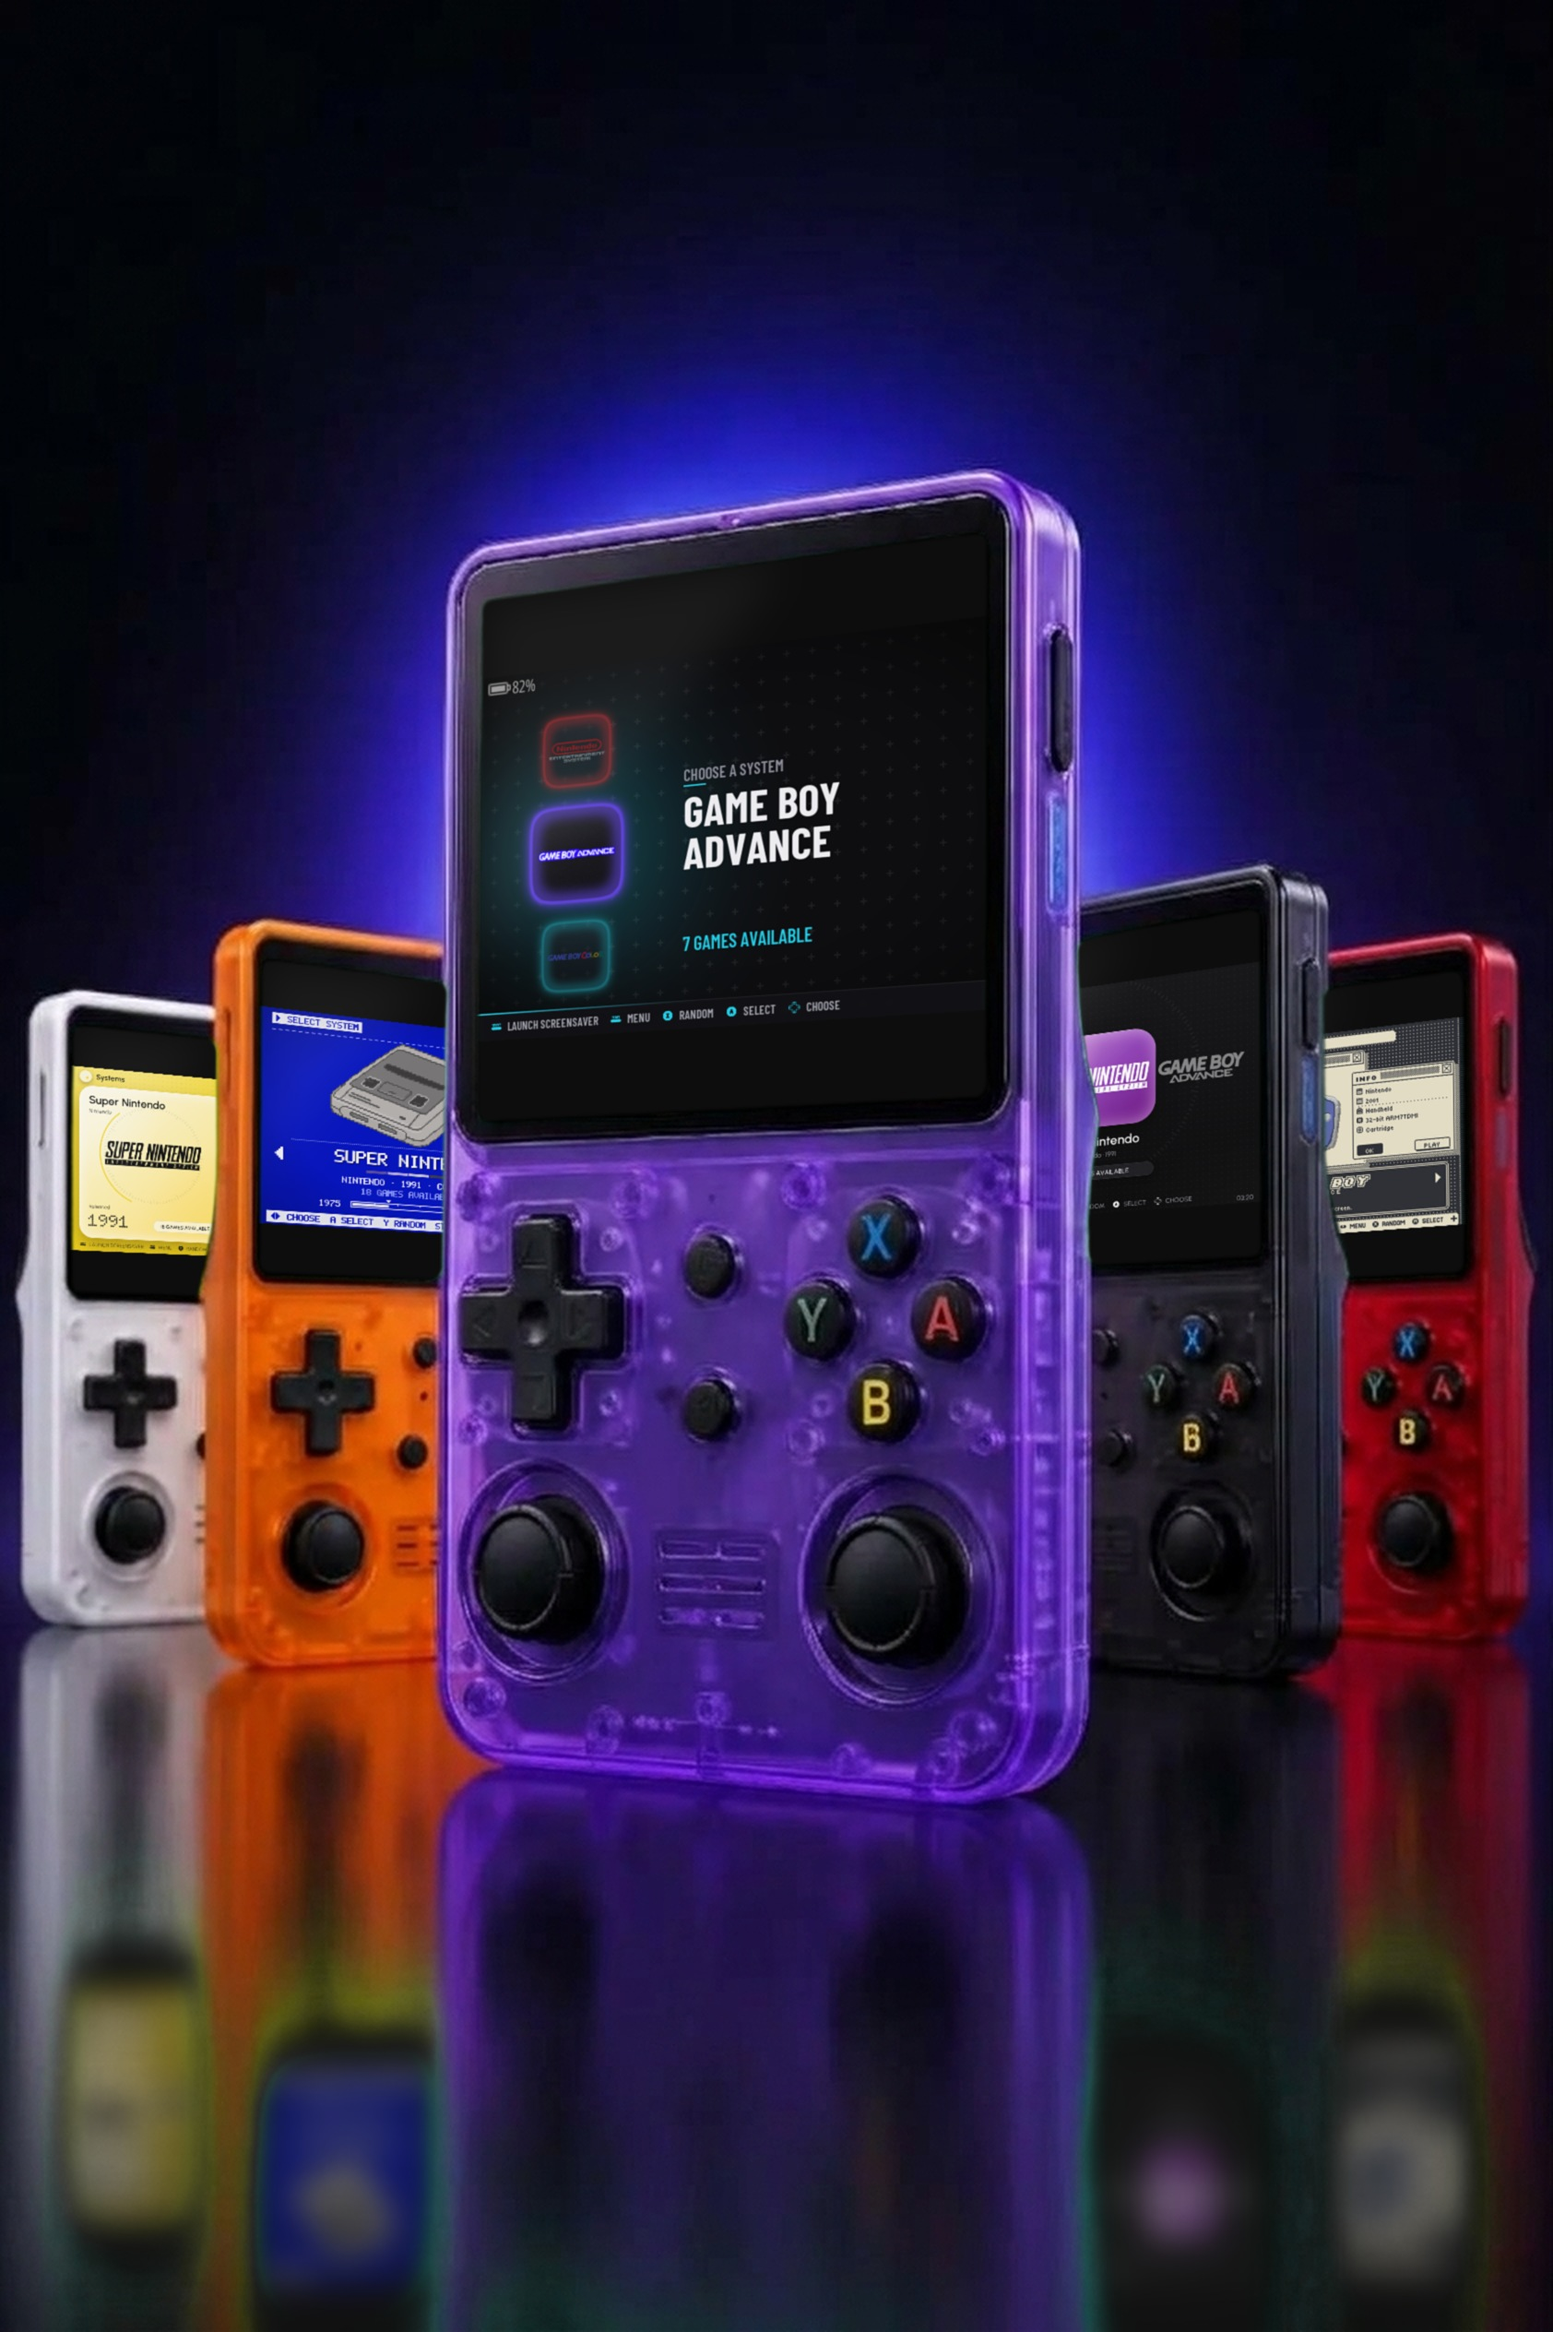
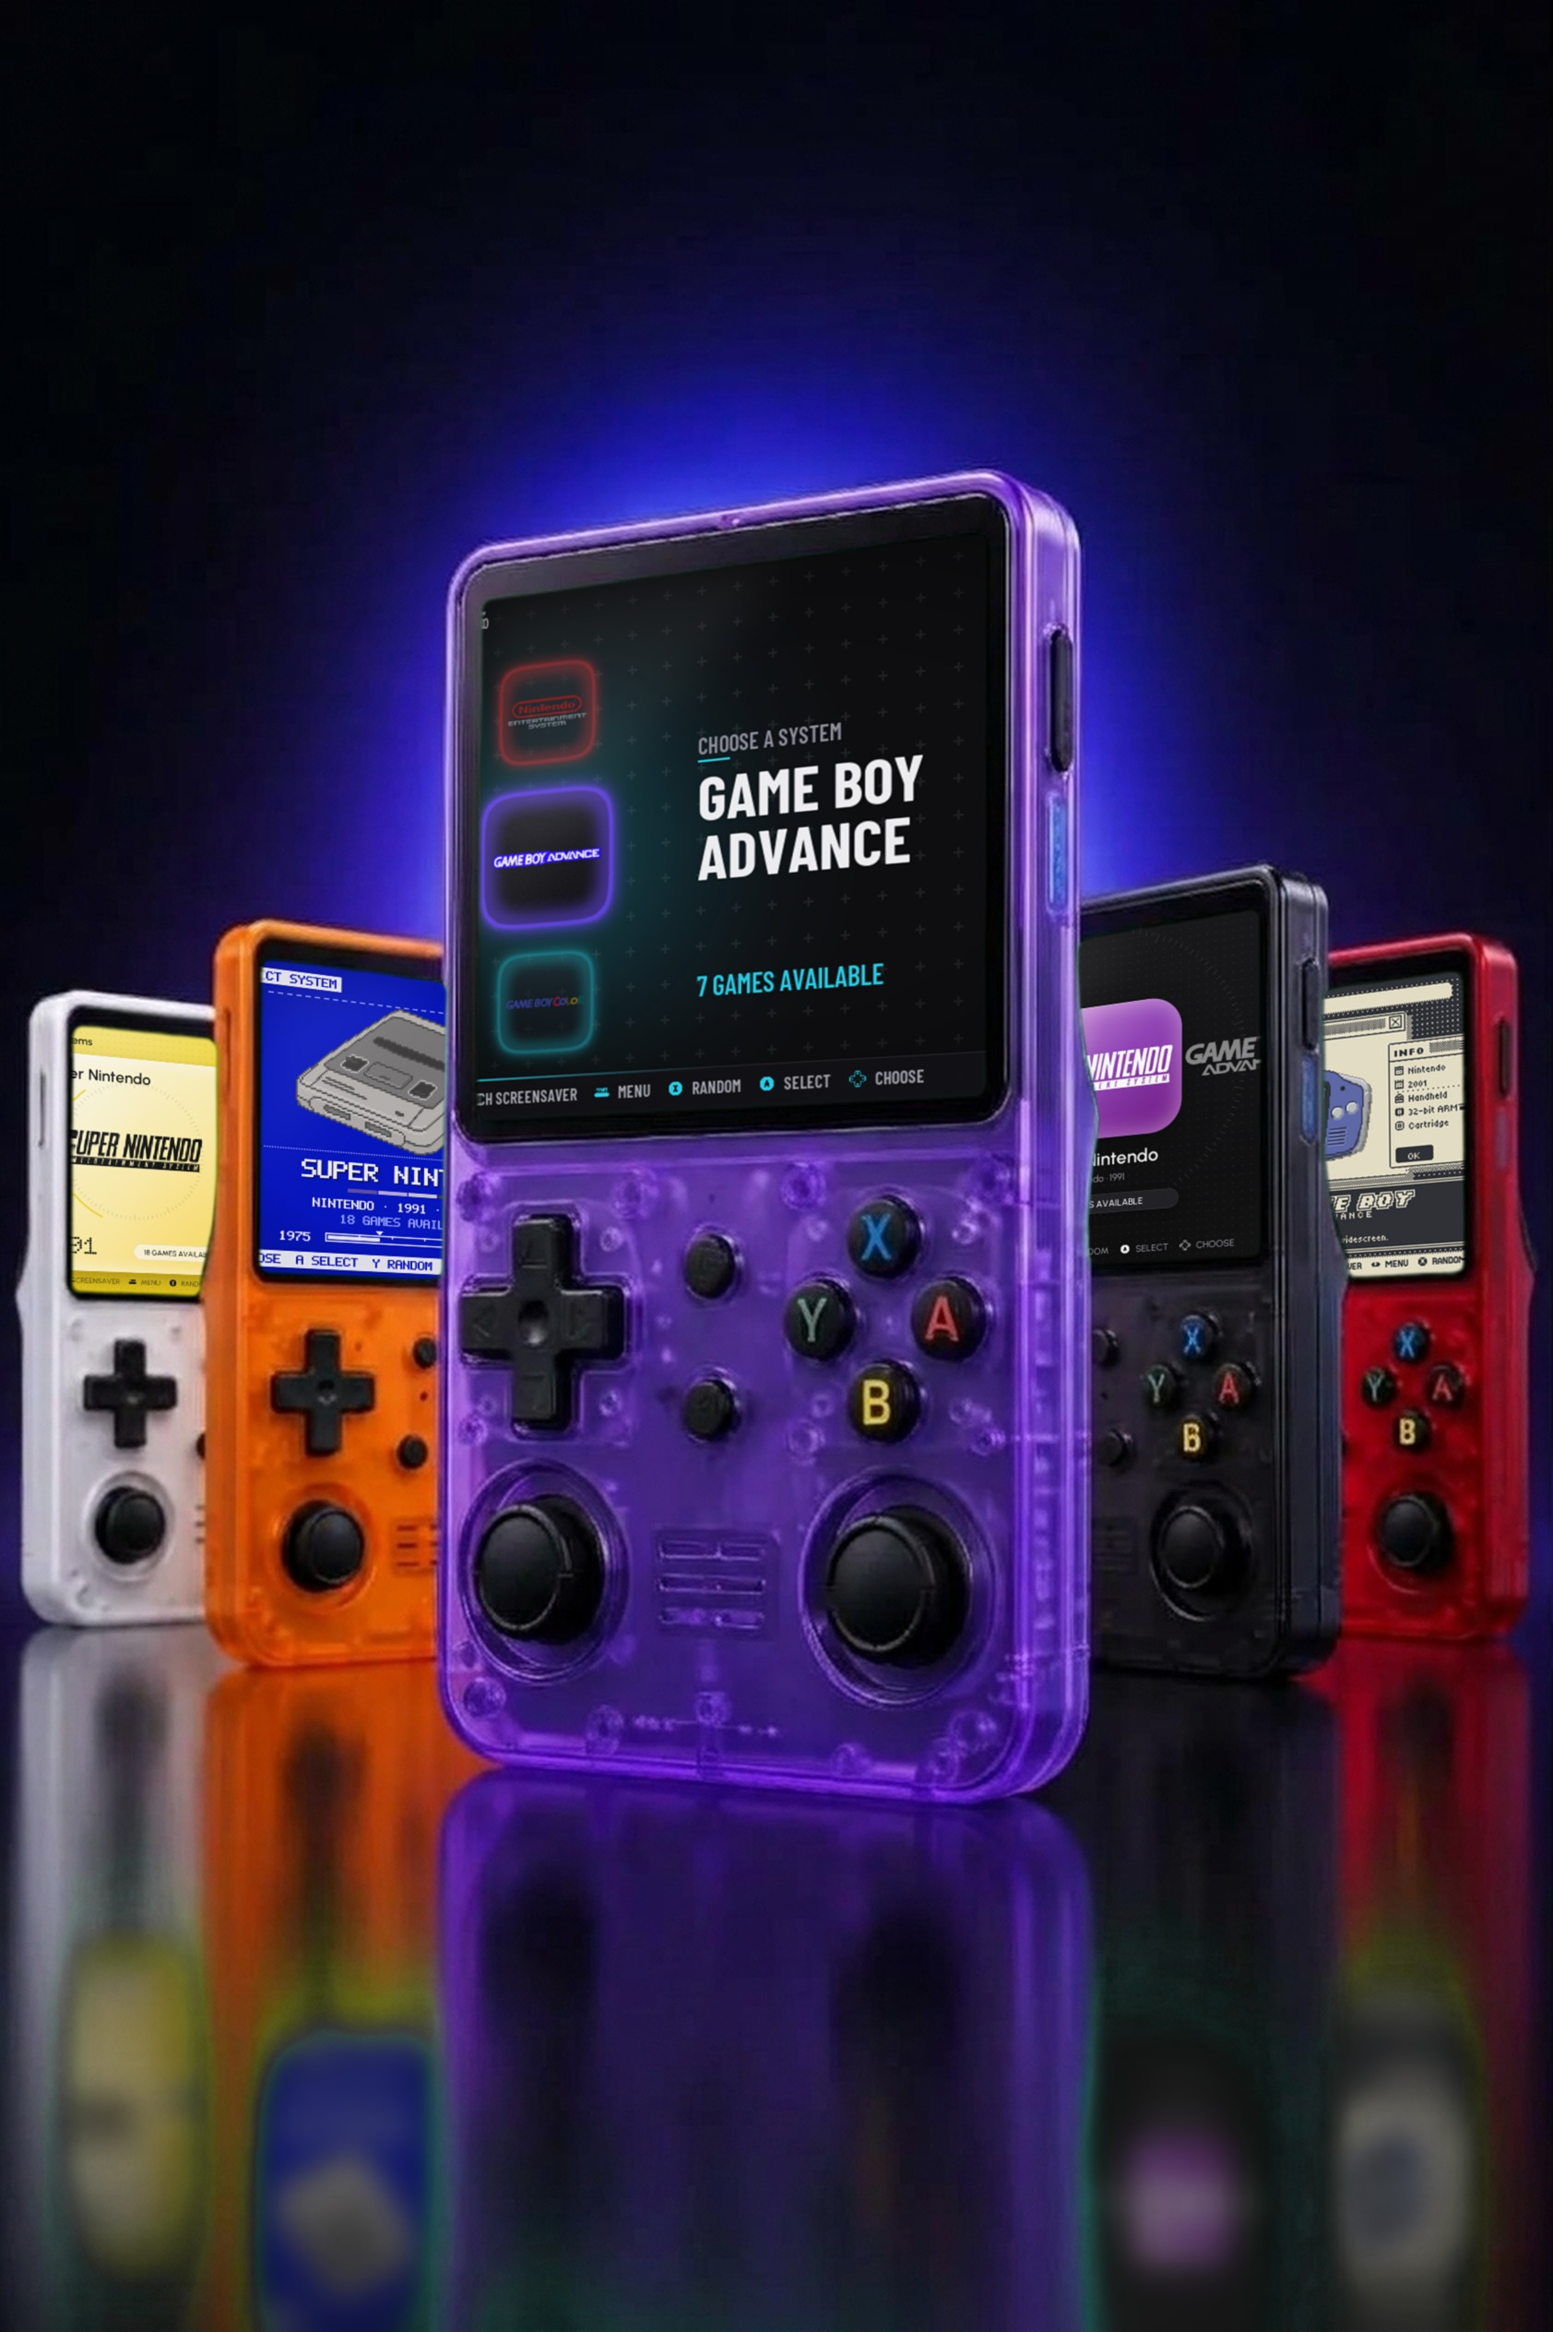
Collection hero: fill each screen (crop sides) instead of letterboxing
Claude-Session: https://claude.ai/code/session_012YBeFWiQAfsThBpmGfRTHW

diff --git a/hqbit-brand/website/hqbit.html b/hqbit-brand/website/hqbit.html
@@ -178,7 +178,7 @@ dialog button { font: 700 13px/1 var(--display); background: var(--text); color:
           <a class="btn btn-line" href="https://drive.google.com/drive/folders/100a83ie8fWxjgm-VBcgk6h-fA1CaF0Ve" target="_blank" rel="noopener">All downloads on Google Drive</a>
         </div>
       </div>
-      <figure><img src="img/showcase-collection.jpg" width="1600" height="1000" alt="Five R36S handhelds in white, orange, purple, black and red, showing the Volta, VCR OSD, NeonGlow and DeskOS themes, reflected on a glossy floor"></figure>
+      <figure><img src="img/showcase-collection.jpg" width="1600" height="1000" alt="Five R36S handhelds in white, orange, purple, black and red, showing the Volta, VCR OSD, NeonGlow and DeskOS themes full-screen, reflected on a glossy floor"></figure>
     </div>
   </div>
 

diff --git a/hqbit-brand/tools/composite_five.py b/hqbit-brand/tools/composite_five.py
@@ -6,7 +6,7 @@ usage: composite_five.py <green photo> <out.jpg>
 * Screens: keyed by greenness; the visible part is fitted with four lines (see composite_photos.fit_quad).
   Screens partly hidden behind the front device get their hidden side extended to the front screen's
   aspect, so the screenshot continues underneath and the matte cuts it where the device in front starts.
-  The photo's screens are taller than 4:3, so the 640x480 screenshot is letterboxed (black bars).
+  The photo's screens are taller than 4:3, so the 640x480 screenshot is cropped at the sides to fill them.
 * Reflections: each green blob on the floor is filled with that device's screen, flipped, blurred and
   dimmed by the reflection's own brightness, then cut by its soft green matte.
 """
@@ -20,6 +20,8 @@ sys.path.insert(0, os.path.dirname(os.path.abspath(__file__)))
 from composite_photos import SCR, fit_quad, greenness  # noqa: E402
 
 UP = 2
+# horizontal crop position per screenshot, so the important part stays on screen
+FOCUS = {"neonglow/system-vertical.png": 0.35, "deskos/system-classic.png": 0.3}
 # (point inside the green screen, screenshot, hidden side or None, point inside its floor reflection or None)
 SCREENS = [
     ((77, 629), "volta/system-wheel-citrine.png", "right", (72, 1137)),        # white
@@ -49,14 +51,13 @@ def extend(quad, side, aspect):
     return np.float32([tl, tr, br, bl])
 
 
-def letterbox(shot, aspect):
-    """Put the 4:3 screenshot full-width on a screen of the given width/height aspect."""
+def fill(shot, aspect, focus=0.5):
+    """Crop the 4:3 screenshot to the screen's width/height aspect so it fills the screen without stretching.
+    focus: where to keep the crop horizontally (0 = left edge, 1 = right edge)."""
     h, w = shot.shape[:2]
-    H = int(round(w / aspect))
-    canvas = np.full((H, w, 3), 6, np.uint8)
-    y = (H - h) // 2
-    canvas[y:y + h] = shot
-    return canvas
+    W = int(round(h * aspect))
+    x = int(round((w - W) * focus))
+    return np.ascontiguousarray(shot[:, x:x + W])
 
 
 def warp(src, quad, size):
@@ -83,7 +84,7 @@ def main(src, dst):
         q = (quad * UP + (UP - 1) / 2).astype(np.float32)
         shot = cv2.imread(os.path.join(SCR, shot_path))
         shot = cv2.resize(shot, None, fx=2, fy=2, interpolation=cv2.INTER_CUBIC)
-        screen = letterbox(shot, aspect).astype(np.float32) / 255
+        screen = fill(shot, aspect, FOCUS.get(shot_path, 0.5)).astype(np.float32) / 255
         screen = 0.03 + screen * 0.94
         region = cv2.dilate(cv2.resize(m, size, interpolation=cv2.INTER_NEAREST), np.ones((7, 7), np.uint8)).astype(np.float32)
         matte = cv2.dilate(np.clip((gr - 8) / 50, 0, 1) * region, np.ones((3, 3), np.uint8))
